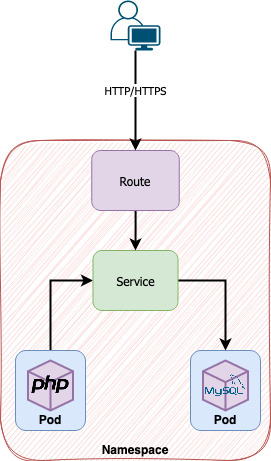
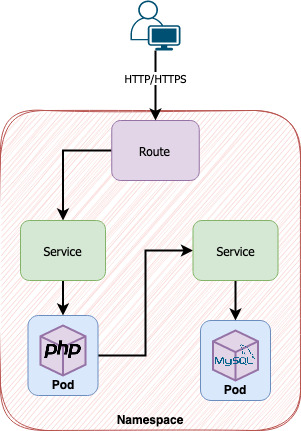
Fix de imagem e finalizacao de explicacao de deployment

Changed region(s): [[0.0, 0.0, 1.0, 0.9652], [0.0295, 0.9652, 0.9742, 1.0], [0.8856, 0.4524, 0.9151, 0.4826]]

diff --git a/_posts/2023-02-05-using-and-understand-openshift-basics.md b/_posts/2023-02-05-using-and-understand-openshift-basics.md
@@ -75,7 +75,7 @@ There is an entire routing layer dedicated to address this issue. So, if users o
 
 So, following the breadcrumb trail, a request comes from an external client (user or application) and is received by the route. The route redirects the call to the service and the service acts as a load-balancer redirecting to the pods.
 
-A commom question is: can my application send/receive data using the route even if it's communicating with an application which is deployed inside the cluster? Yes you can but you are overheading the communication because the service already gives you the opportunity to communicate using plain HTTP.
+A commom question is: can my application send/receive data using the route even if it's communicating with an application which is deployed inside the cluster? Yes you can but you are overheading the communication because the service layer already gives you the opportunity to communicate using plain HTTP.
 
 Now you have in your pocket what can be considered the basis related to how OpenShift works and handles applications. But we, as software engineers, know that there is a huge amount of concerns that live around these simples concepts. One of these concerns are: how an application could be updated on OpenShift? In our example the application PHP had some improvements and new version must be deployed. How that would be addressed using OpenShift?
 
@@ -83,9 +83,9 @@ A Deployment is a Kubernetes object widely used and adopted in OpenShift 4 to ho
 
 Is always necessary in order to create a pod create a deployment? No.
 
-You can create pods by writing its definition (YAML or JSON) by yourself. The use of a deployment is to make all easier. If a pod gets deleted, using deployment, a new one is created automatically because every deployment works along with a Replica Set. So our study scenario can be described as the image below.
+You can create pods by writing its definition (YAML or JSON) by yourself. The use of a deployment is to make all easier. If a pod gets deleted, using deployment, a new one is created automatically because every deployment works along with a Replica Set. The Replica Set is the object responsible to guarantee that the amount of replicas configured in one deployment will actually exist. This object is created automatically by OpenShift when a deployment is created and application's rollout is done. So our study scenario can be described as the image below.
 
-[adicionar imagem]
+![Pods + deployment + replica set + inner/outer communication](/assets/img/using-and-understanding-openshift-basics/full-comm.jpg){:style="display:block; margin-left:auto; margin-right:auto"}
 
 
 
